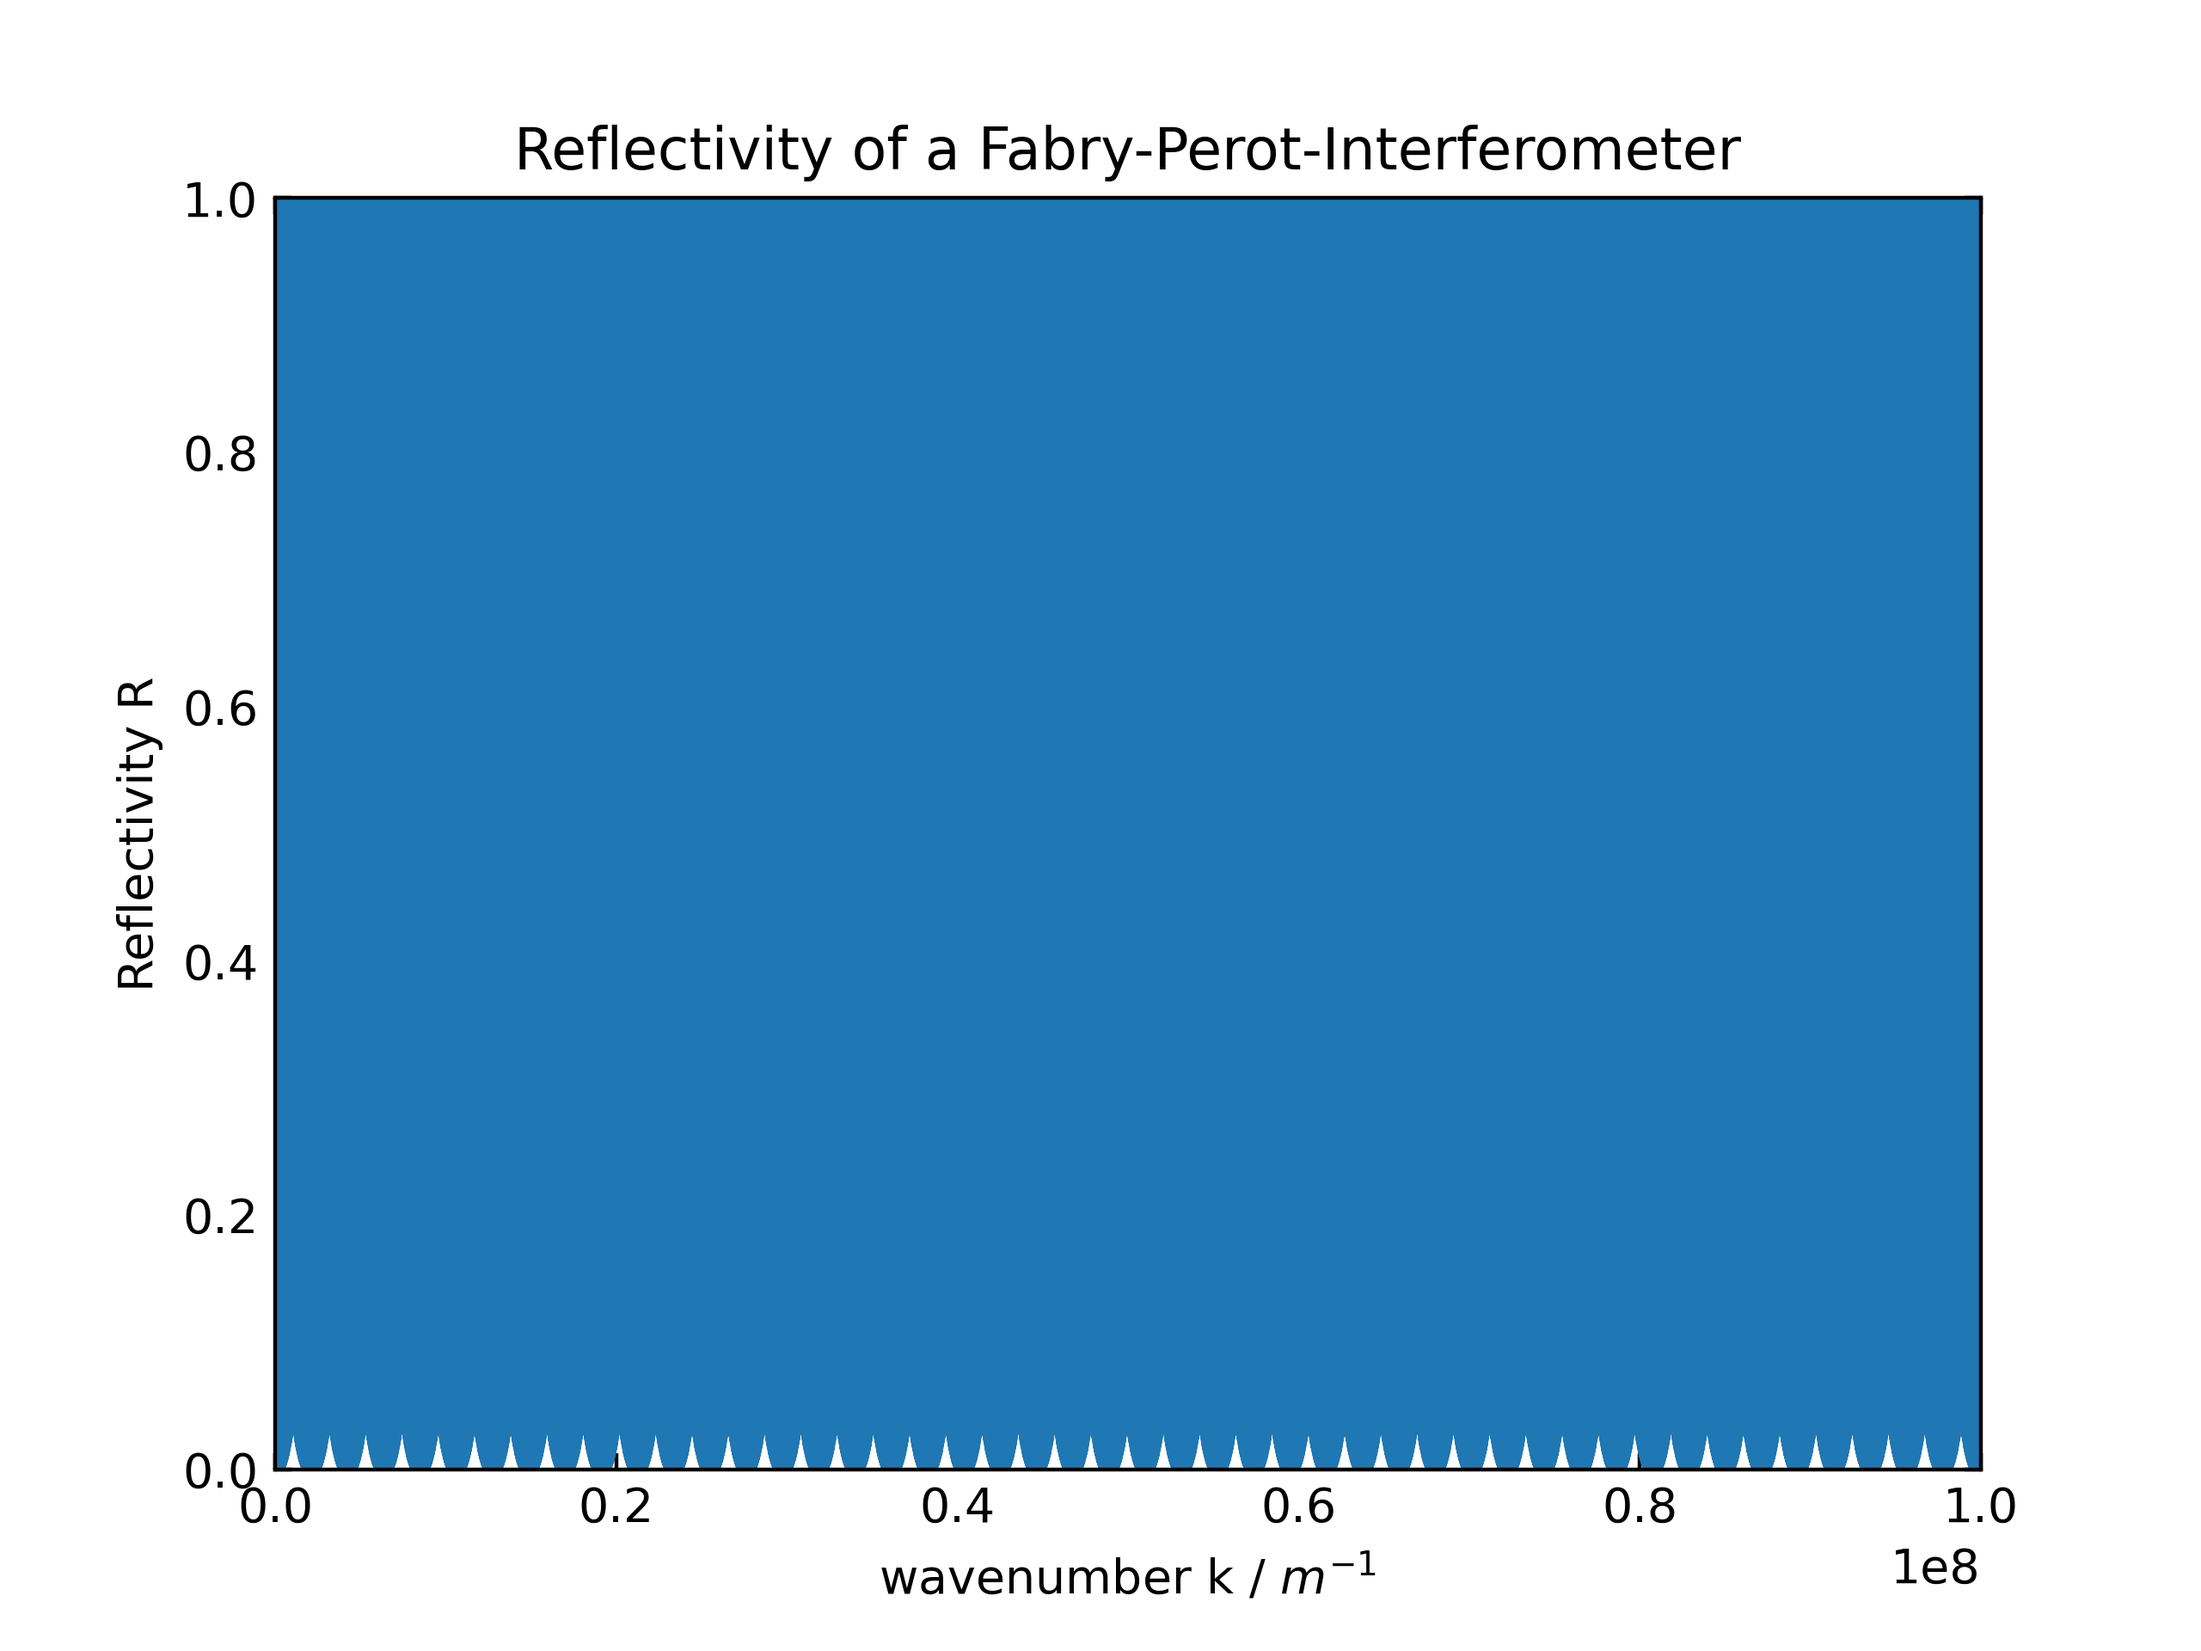
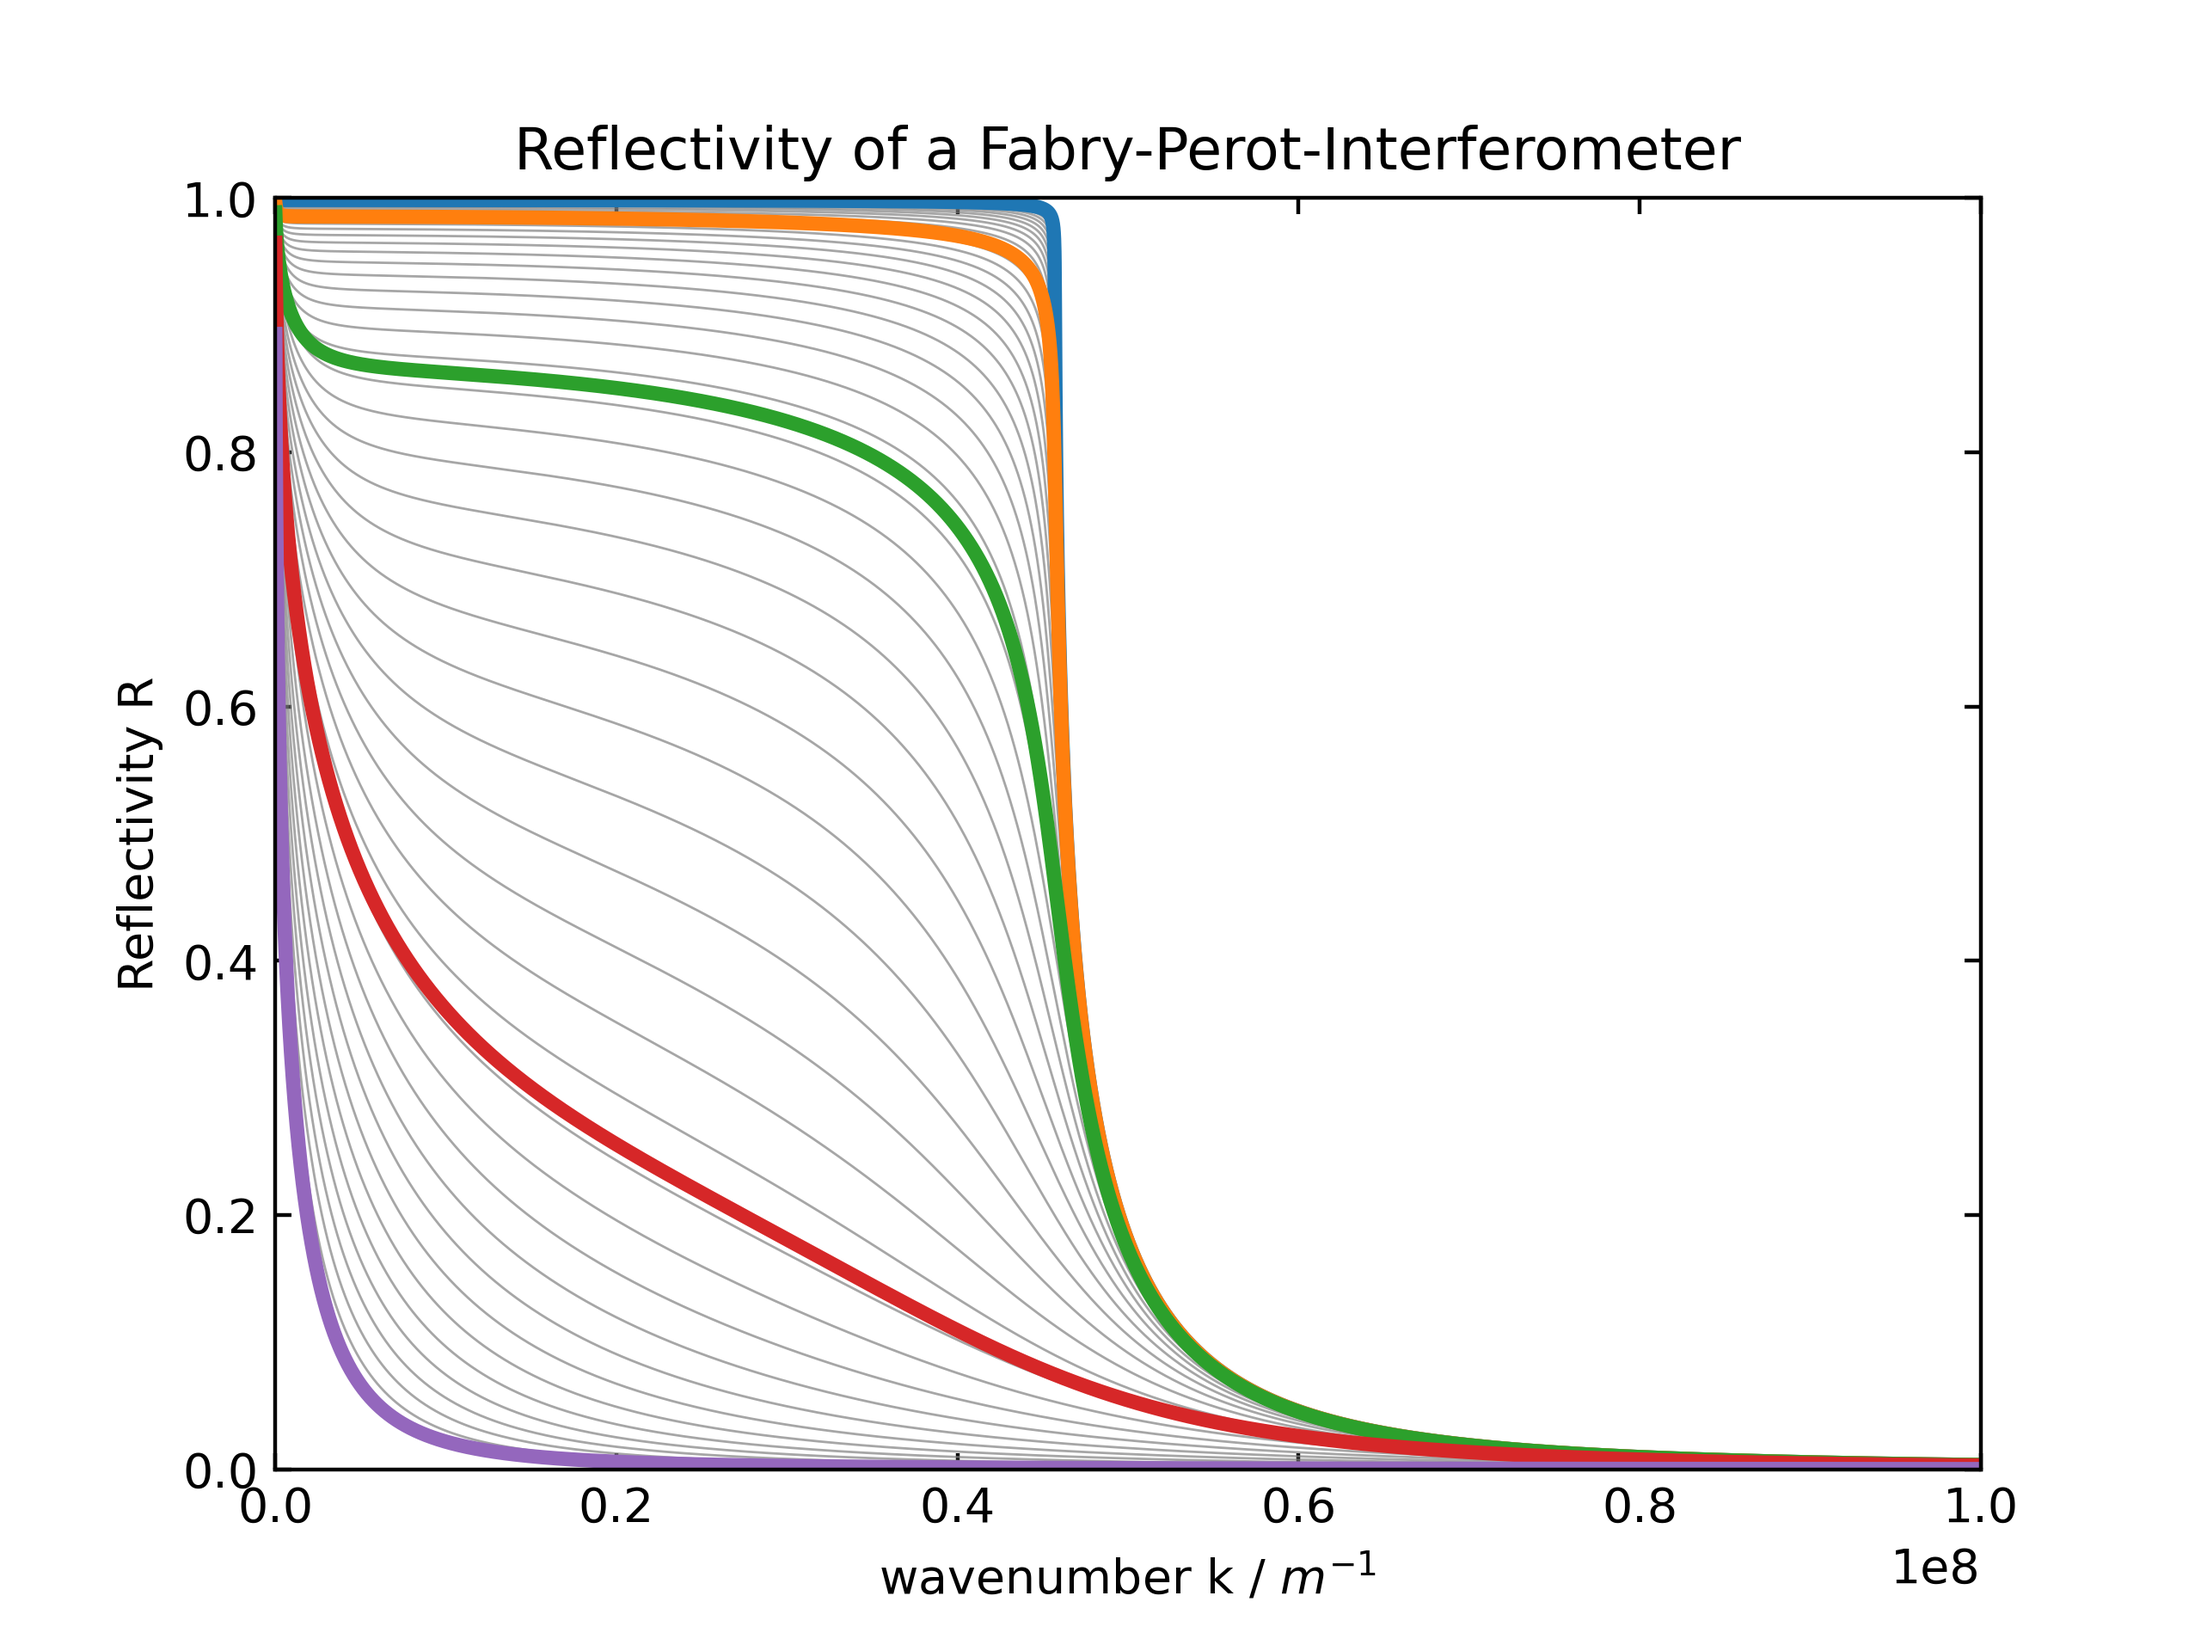
Aktualisiere die Berechnung der Reflexivität für Halbleiter; erhöhe die Dicke und passe die tau-Werte an, um die Plot-Darstellung zu verbessern

diff --git a/SolidStateOptics/Theory/Theoretical Curve Reflection.py b/SolidStateOptics/Theory/Theoretical Curve Reflection.py
@@ -13,9 +13,9 @@ tau3 = 0.001*10**-12
 tau4 = 0.0001*10**-12
 tau5 = 0.00001*10**-12
 c=const.c
-d = 100 *10**-5 #dicke si undoped
+d = 500 *10**-5 #dicke si undoped
 k_max = 1*10**8
-k_max_semicon = 140000
+k_max_semicon = 1400000
 epsilon_inf = 10.3648
 omega_LO = 292*100 
 omega_TO = 268*100 
@@ -25,8 +25,6 @@ m_eff_Semicon = 0.067*const.m_e
 
 
 
-
-'''
 def calculateReflectivity(d, tau, k):
     omega = c*k
     omega_p = np.sqrt(N_Dichte*e**2/(m_eff*epsilon_0))
@@ -74,23 +72,41 @@ Image.open("Paper/Images/foo.png").show()
 plt.clf()
 
 
-s‚
 # plt.plot(k,R_FabryPerot)
 # plt.show()
-'''
+
 #Lukas
 
-def calculateReflectivitySemiconductor(epsilon_inf, omega_LO, omega_TO, gamma, d, k, N_DichteSemicon, tau4):
+def calculateReflectivitySemiconductor(epsilon_inf, omega_LO, omega_TO, gamma, d, k, N_DichteSemicon, tau1):
     omega = c*k
     epsilon_S = epsilon_inf * (1 + (omega_LO**2 - omega_TO**2) / (omega_TO**2 - omega**2 - 1j*omega*gamma))
-    sigma = (N_DichteSemicon*e**2*tau4)/(m_eff_Semicon)*(1/(1-1j*omega*tau4))
+    sigma = (N_DichteSemicon*e**2*tau1)/(m_eff_Semicon)*(1/(1-1j*omega*tau1))
     epsilon = epsilon_S + 1j*sigma/(omega*epsilon_0)
     N_S = np.sqrt(epsilon)
     expo = 1j*2*omega*N_S*d/c
     r=(np.exp(expo)-1)*(1-N_S)/(np.exp(expo)*(1-N_S)-(1+N_S))
     R_S = np.abs(r)**2 / max(np.abs(r)**2)
     return R_S
-k = np.linspace(0, k_max_semicon, 100)
-plt.clf()
-plt.plot(k, calculateReflectivitySemiconductor(epsilon_inf, omega_LO, omega_TO, gamma, d, k, N_DichteSemicon, tau4))
 
+k = np.linspace(1, k_max_semicon, 1000)  
+plt.clf()
+
+# Plot für alle tau-Werte
+taus = [tau1, tau2, tau3, tau4]
+for tau in taus:
+    R_S = calculateReflectivitySemiconductor(epsilon_inf, omega_LO, omega_TO, gamma, d, k, N_DichteSemicon, tau)
+    # Überprüfung, ob R_S gültige Werte enthält
+    if np.all(np.isnan(R_S)) or np.all(R_S == 0):
+        print(f"Warnung: Alle Werte von R_S für tau={tau} sind ungültig oder Null.")
+    else:
+        plt.plot(k, R_S, label=f'tau={tau:.1e}')
+
+# Achsentitel und Legende
+plt.xlabel('wave number k / ' + r'$m^{-1}$')
+plt.ylabel('reflectivity R')
+plt.title('Theoretical reflectivity of a semiconductor')
+plt.legend()
+plt.savefig('Paper/Images/semi.png', dpi=400)
+from PIL import Image
+Image.open("Paper/Images/semi.png").show()
+plt.clf()
